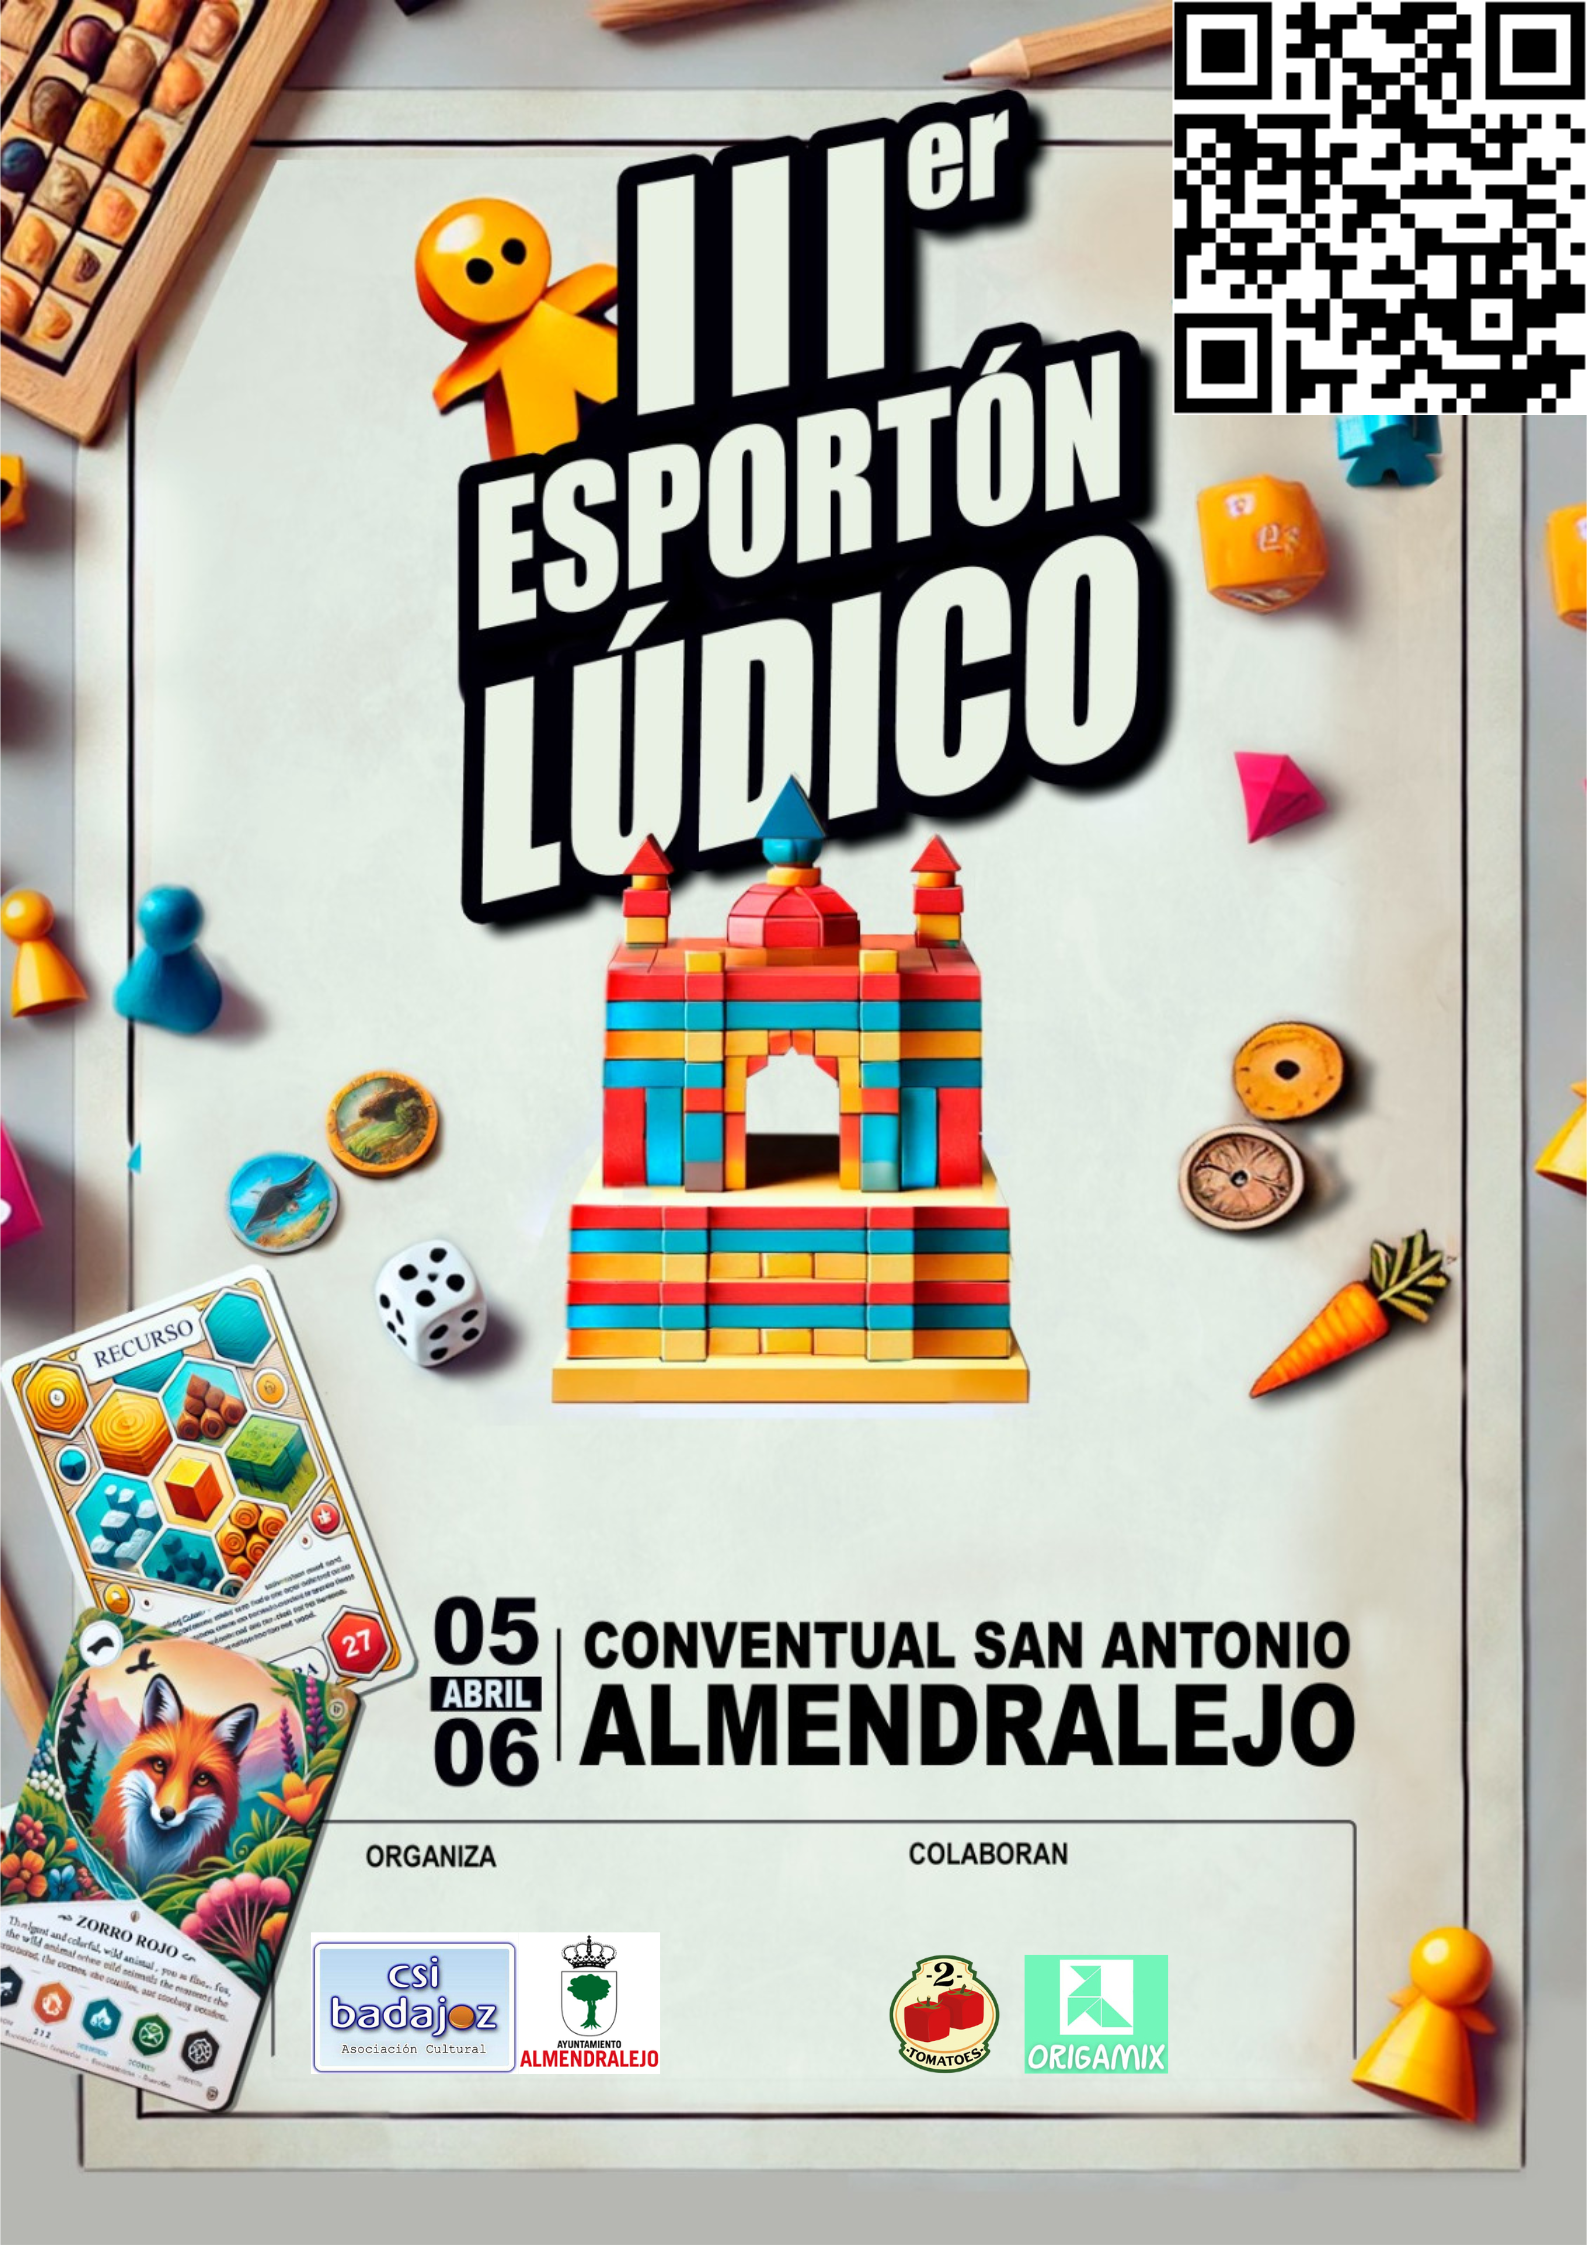
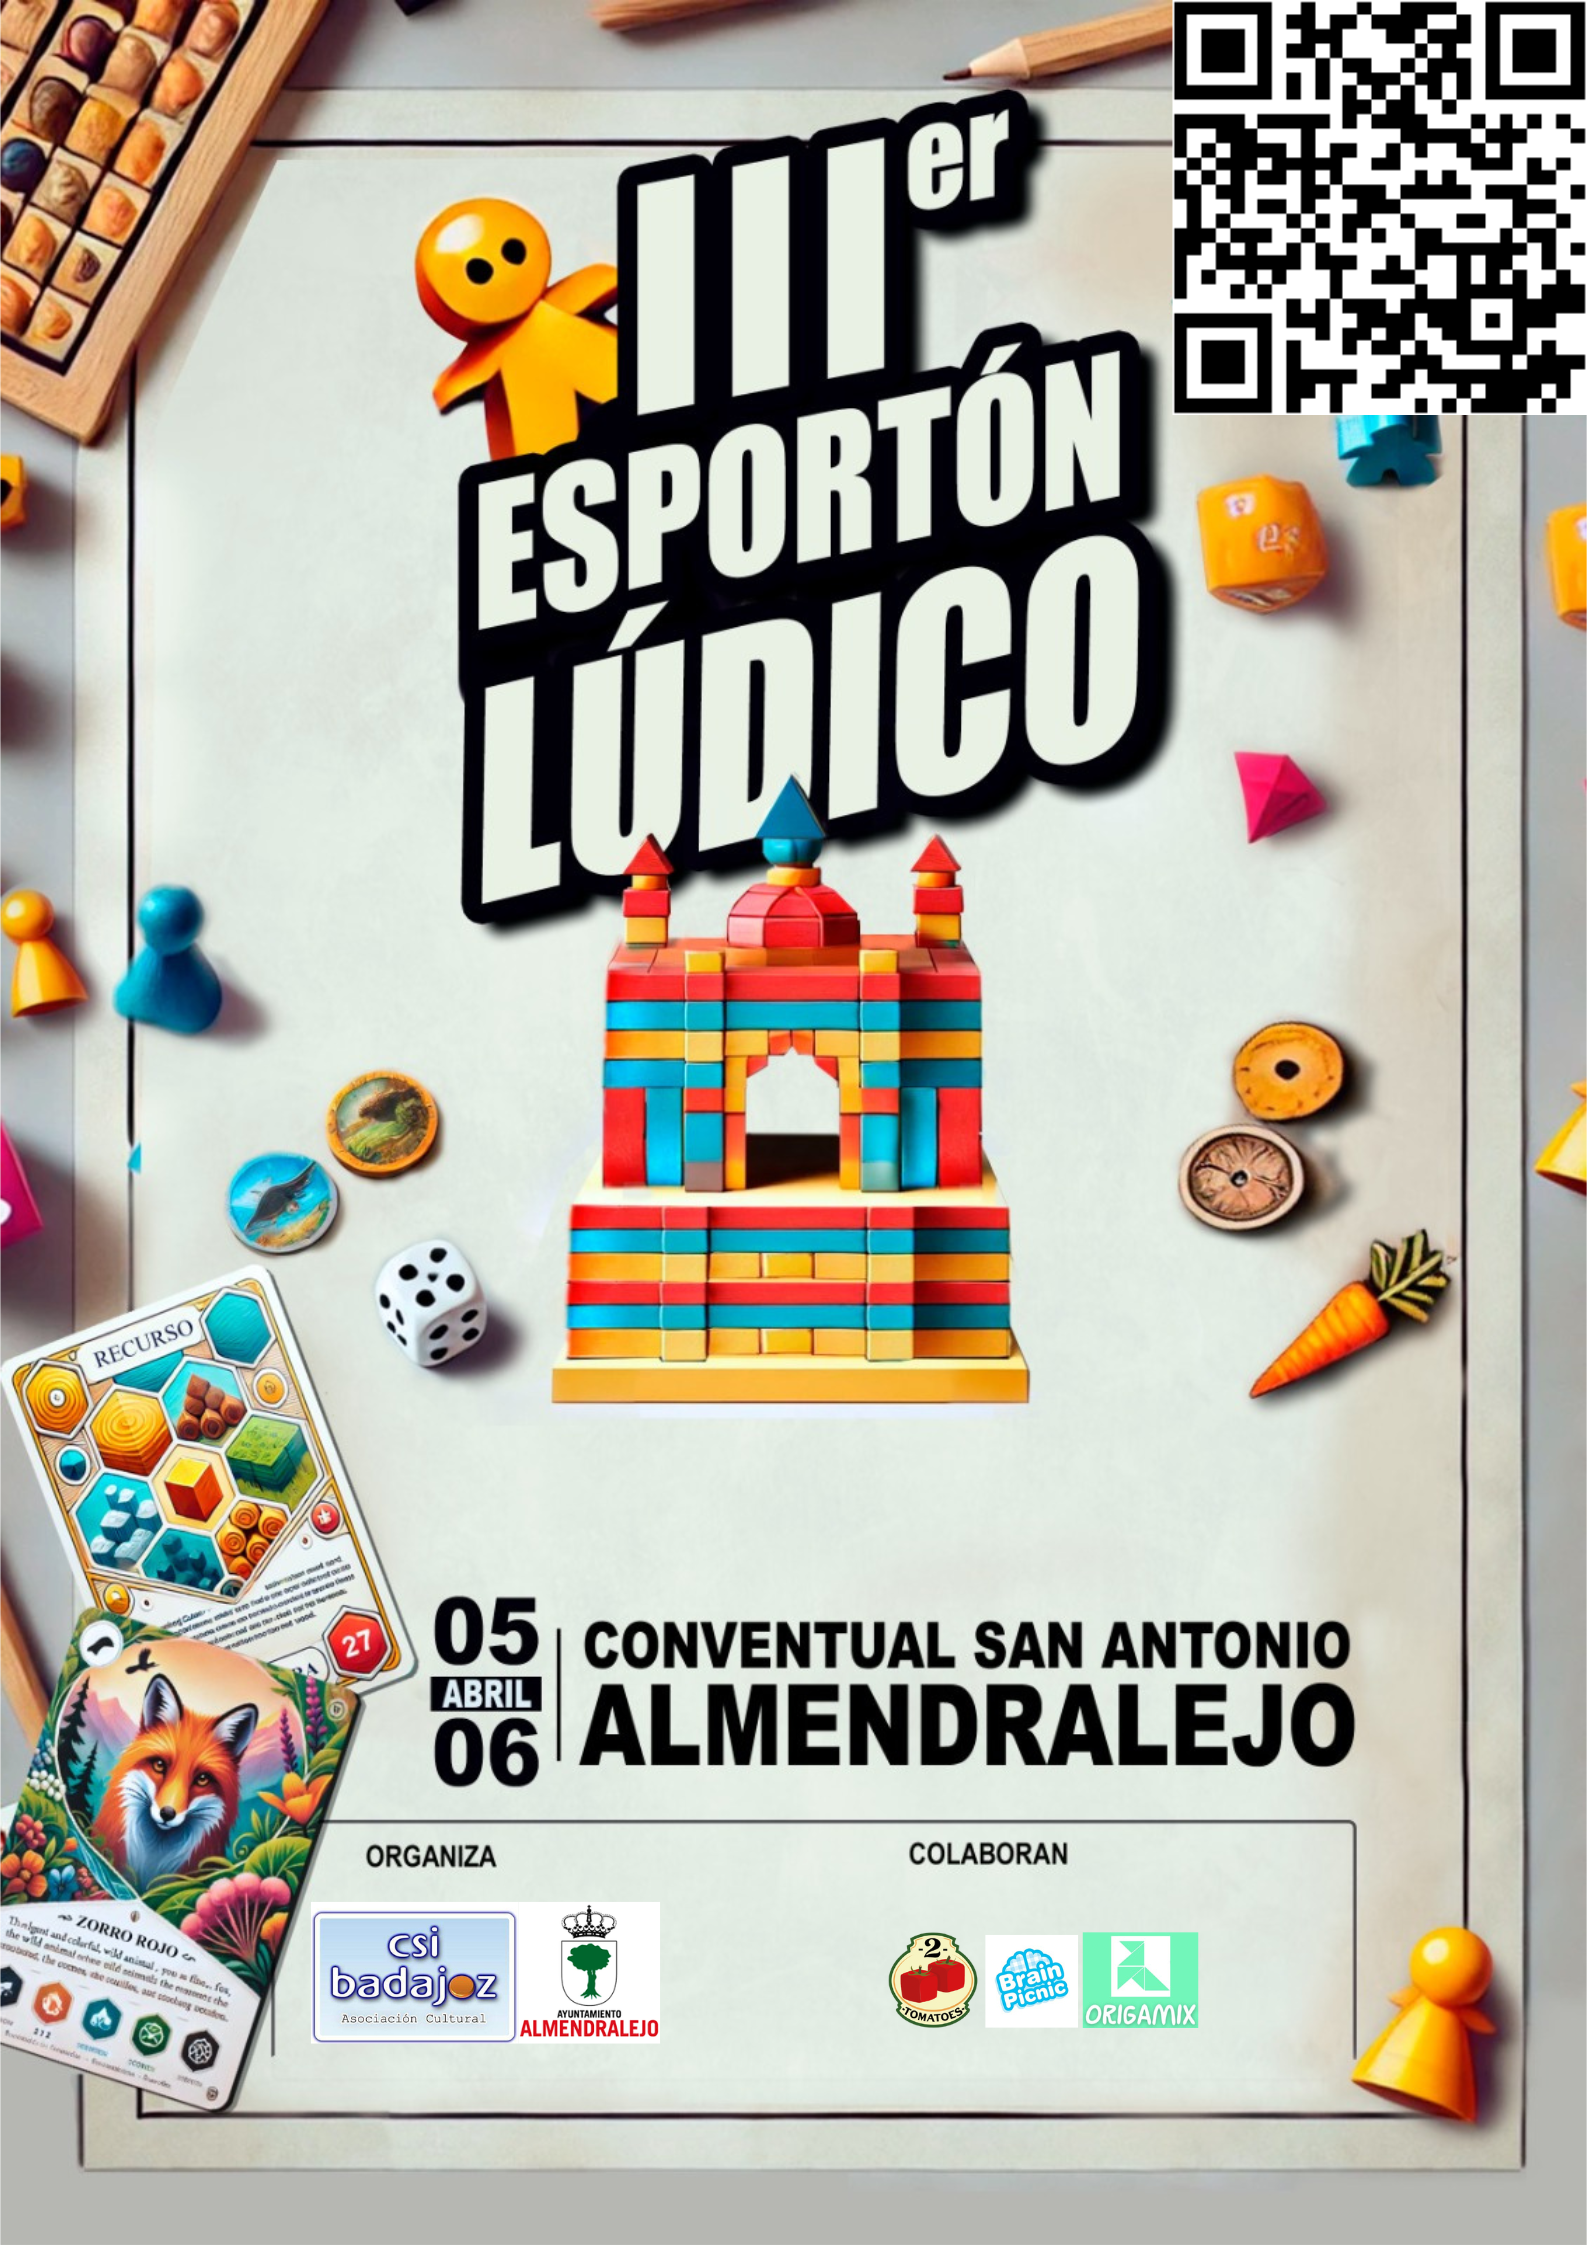
2025-03-05

Changed region(s): [[0.1853, 0.8419, 0.4323, 0.9354], [0.5558, 0.8419, 0.7719, 0.9354]]

diff --git a/iiiel.html b/iiiel.html
@@ -11,6 +11,10 @@ title: III Esportón Lúdico
 
 <img src="/assets/images/todas/2025/iii_esporton_ludico/cartel_iii_esporton_ludico.png">
 
-Para esta ocasión contaremos con juegos de la editorial <b>2 Tomatoes</b>.
+<p>Para esta ocasión contaremos con juegos de la editorial <b>2 Tomatoes</b>.</p>
 
-<img src="/assets/images/todas/2025/iii_esporton_ludico/logo_2tomatoes.png">
+<a href="https://2tomatoesgames.com/es/" target="_blank"><img src="/assets/images/todas/2025/iii_esporton_ludico/logo_2tomatoes.png"></a>
+
+<p>También estarán presente los juegos de la editorial <b>Brain Picnic</b>.</p>
+
+<a href="https://brainpicnic.com/" target="_blank"></a><img src="/assets/images/todas/2025/iii_esporton_ludico/logo_brainpicnic.jpeg"></a>
